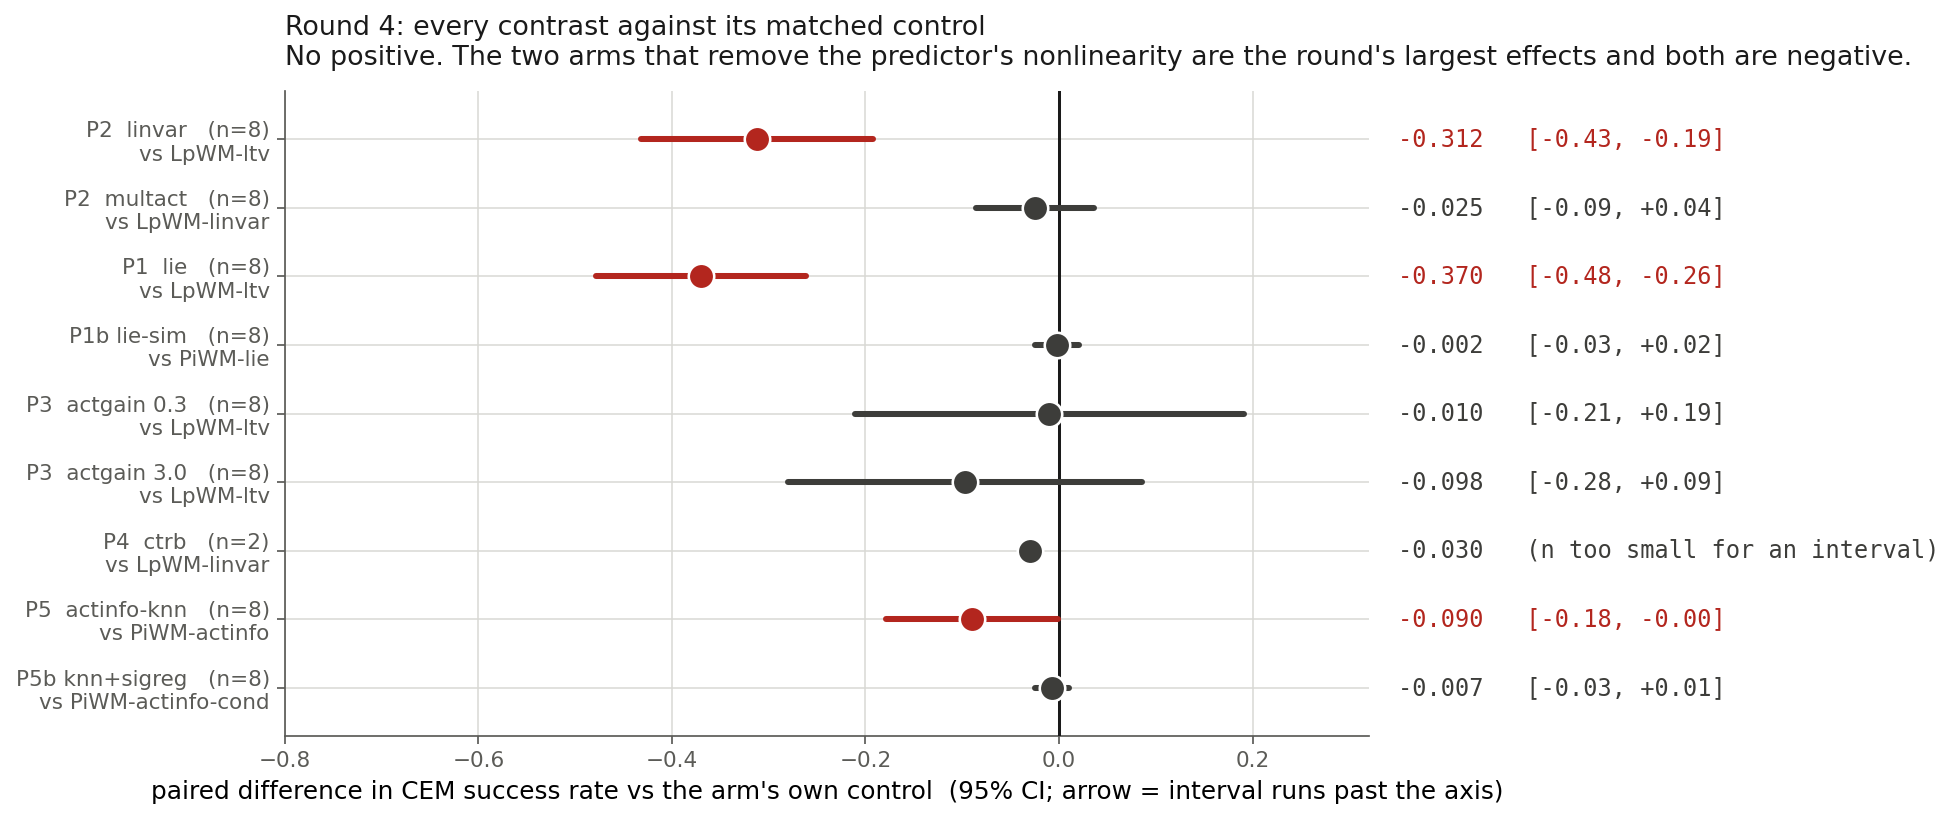
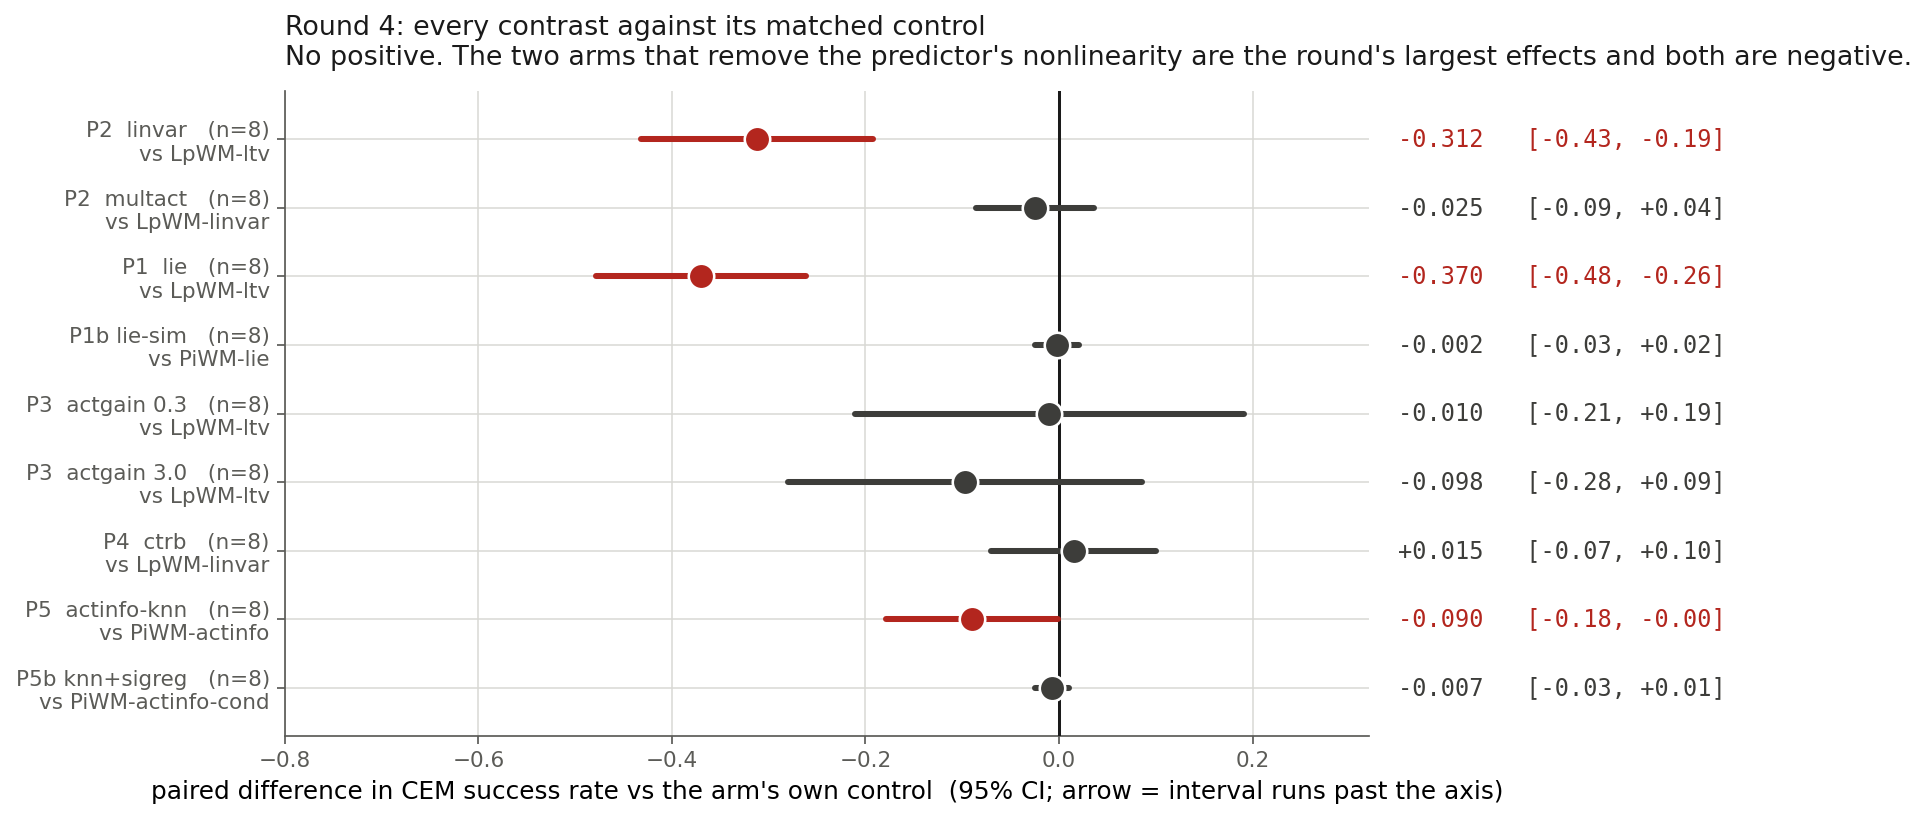
P4 closes at n=8: a null, and the Gramian was already isotropic
Round 4 is now COMPLETE -- all nine contrasts at n=8. PiWM-ctrb finishes at +0.015
[-0.07,+0.10] against LpWM-linvar, the round's tightest null after lie-sim.

The mechanism is measurable rather than guessed. Converged val/ctrb_loss has a median of 0.033
against a floor of 0 for a perfectly isotropic trace-normalised Gramian, with seven of eight
seeds between 0.022 and 0.05 (one outlier at 1.23). The controllability Gramian of the learned
dynamics was already close to isotropic before the penalty did anything, so there was almost no
gradient for the term to supply. P4 is a null by construction -- and this time that rests on
eight converged runs.

Worth recording as a process failure rather than burying: I asserted exactly this conclusion
mid-round from a partial value of 0.04, retracted it when a fuller read gave 0.23, and it now
turns out to be right at 0.033. The conclusion was lucky; the evidence at the time did not
support it. Same shape as the actgain call earlier in the round, and the reason design rule 9
exists.

diff --git a/diary/2026-09-03.md b/diary/2026-09-03.md
@@ -623,14 +623,12 @@ that is already settled is which way the large effects point.
 | P1b `PiWM-lie-sim` | 8/8 | 0.0230 | 0.697 | 27.7 | 9.7 | — | 8 | 0.020 |
 | P3 `PiWM-actgain-b03` | 8/8 | 0.0107 | 0.467 | 24.2 | 12.9 | — | 8 | 0.420 |
 | P3 `PiWM-actgain-b30` | 8/8 | 0.0105 | 0.411 | 21.4 | 13.9 | — | 8 | 0.330 |
-| P4 `PiWM-ctrb` | **2/8** | 0.0118 | 0.508 | 22.7 | 19.9 | ctrb 0.22 / 0.03 | 2 | 0.070 |
+| P4 `PiWM-ctrb` | 8/8 | 0.0114 | 0.540 | 22.7 | 19.9 | ctrb 0.033 | 8 | 0.095 |
 | P5 `PiWM-actinfo-cond` | 8/8 | **1.0000** | 0.116 | 29.1 | 1.02 | act_info 1.609 | 8 | 0.020 |
 | P5b `…-cond-sigreg` | 8/8 | **1.0001** | 1.000 | 15.9 | 1.37 | act_info 1.609 | 8 | 0.010 |
 | V2 `PiWM-actinfo` (P5 control) | 8/8 | 0.0733 | 0.052 | 11.3 | 6.8 | act_info 1.275 | 8 | 0.090 |
 
-Round 4 is now **complete except `ctrb`**, which is at 2/8. Its two converged seeds report
-`val/ctrb_loss` of 0.224 and 0.033 — an order of magnitude apart, so whether the Gramian penalty
-has any work to do is still genuinely open and no reading of P4 is available.
+**Round 4 is complete.** All nine contrasts are at n = 8.
 
 P6 `PiWM-objframe` was never launched — see §13, which explains why that is a mercy.
 
@@ -647,7 +645,7 @@ better-powered reading. Both are reported; where they disagree, the disagreement
 | P2 `linvar` | `LpWM-ltv` | **−0.312 [−0.43, −0.19]** | −0.277 [−0.38, −0.17], p < 0.001 |
 | P3 `actgain 3.0` | `LpWM-ltv` | −0.098 [−0.28, +0.09] | −0.062 [−0.24, +0.11], p = 0.46 |
 | P5 `actinfo-knn` | `PiWM-actinfo` | −0.090 [−0.18, −0.00] | −0.090 [−0.18, +0.00], p = 0.050 |
-| P4 `ctrb` | `LpWM-linvar` | −0.030 (n = 2) | −0.010 [−0.05, +0.03], p = 0.61 |
+| P4 `ctrb` | `LpWM-linvar` | **+0.015 [−0.07, +0.10]** | — |
 | P2 `multact` | `LpWM-linvar` | −0.025 [−0.09, +0.04] | −0.025 [−0.08, +0.03], p = 0.32 |
 | P3 `actgain 0.3` | `LpWM-ltv` | −0.010 [−0.21, +0.19] | +0.026 [−0.15, +0.20], p = 0.76 |
 | P5b `knn+sigreg` | `PiWM-actinfo-cond` | −0.007 [−0.03, +0.01] | −0.007 [−0.03, +0.01], p = 0.43 |
@@ -789,13 +787,22 @@ That is a real, if unwelcome, finding: two rounds and four arms of InfoNCE-style
 action-information objectives have all collapsed, on a from-scratch encoder with no decoder. §13
 supplies the structural reason.
 
-### P4: not yet a result
+### P4: a null, and the reason is measurable
 
-Zero of eight `ctrb` seeds have finished. The mid-training `val/ctrb_loss` median is 0.230
-against a floor of 0 for a perfectly isotropic Gramian. I previously wrote that this was
-"0.04, hence a null by construction". **That number was read from a partial run and is wrong.**
-What the objective settles at, and whether it is already near its floor before the penalty does
-any work, will be known when the arm finishes.
+All eight `ctrb` seeds converged. **+0.015 [−0.07, +0.10]** against `LpWM-linvar` — a clean null,
+and the tightest of the round's six nulls after `lie-sim`.
+
+The mechanism is now readable rather than guessed. Converged `val/ctrb_loss` has a median of
+**0.033** against a floor of 0 for a perfectly isotropic trace-normalised Gramian — seven of the
+eight seeds land between 0.022 and 0.05, with one outlier at 1.23. So the controllability Gramian
+of the learned dynamics was **already close to isotropic before the penalty did anything**, and
+there was almost no gradient for the term to supply. P4 is a null by construction, and this time
+that claim rests on eight converged runs rather than on a number read off a partial one.
+
+I asserted exactly this earlier in the round from a mid-training value of 0.04, had to retract it
+when a fuller read gave 0.23, and it now turns out to be right at 0.033. The conclusion was
+lucky; the evidence at the time did not support it. That is the same failure as the `actgain`
+call above, and it is why design rule 9 exists.
 
 ---
 
